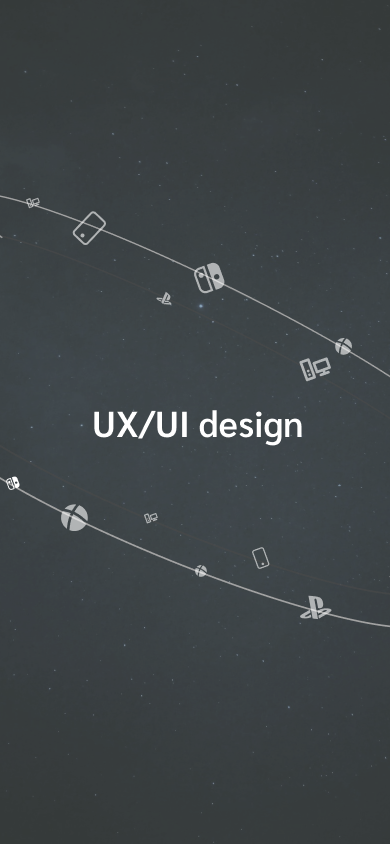
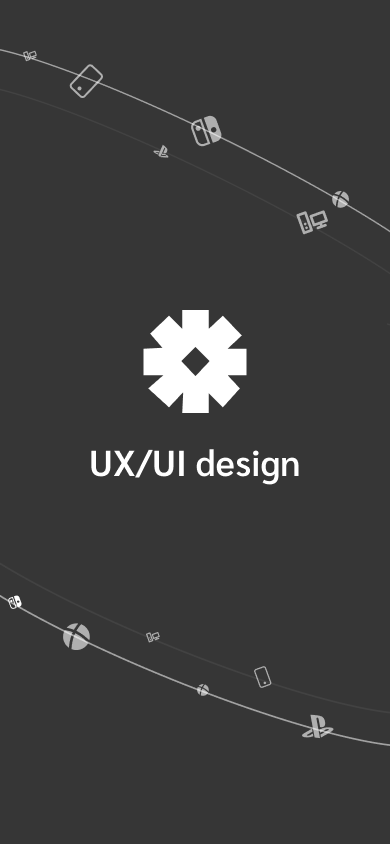
carteles cambio

diff --git a/cocos.html b/cocos.html
@@ -104,7 +104,7 @@
             <!-- introduccion version mobile -->
             <div class="Main-introduccionMobile">
                 <div class="Main-imgLogo">
-                    <img src="./img/mattura/portadaImagen.jpg" alt="mattura" class="Main-img">
+                    <img src="./img/cocos/portada-color.png" alt="mattura" class="Main-img">
 
 
                 </div>
@@ -114,13 +114,10 @@
                 </div> -->
 
                 <div class="Main-descripcion">
-                    <svg width="24" height="24" viewBox="0 0 24 24" fill="none" xmlns="http://www.w3.org/2000/svg">
-                        <path fill-rule="evenodd" clip-rule="evenodd"
-                            d="M23.279 3.0397C23.301 2.77095 23.3118 2.5014 23.3113 2.23176V0.615875H20.4835C18.3855 0.615526 16.3439 1.29576 14.6654 2.55445C12.9868 3.81314 11.7619 5.58236 11.1744 7.59648C10.2689 6.42845 9.10798 5.48329 7.7806 4.83347C6.45322 4.18364 4.99466 3.84642 3.51676 3.84764H0.688965V5.46352C0.688965 8.03487 1.71043 10.5009 3.52865 12.3191C5.34687 14.1373 7.8129 15.1588 10.3842 15.1588H10.7882V22.0263C10.7882 22.3477 10.9159 22.656 11.1432 22.8832C11.3705 23.1105 11.6787 23.2382 12.0001 23.2382C12.3215 23.2382 12.6298 23.1105 12.8571 22.8832C13.0844 22.656 13.212 22.3477 13.212 22.0263V11.927H13.616C16.0477 11.9274 18.3908 11.0139 20.1806 9.36777C21.9705 7.72161 23.0763 5.46297 23.279 3.0397ZM13.2557 9.50322C13.4544 7.72544 14.3015 6.08331 15.635 4.89087C16.9684 3.69842 18.6946 3.03935 20.4835 3.0397H20.8438C20.6451 4.81748 19.798 6.45961 18.4645 7.65205C17.1311 8.84449 15.4049 9.50356 13.616 9.50322H13.2557ZM3.51676 6.27146C5.30561 6.27111 7.03183 6.93018 8.36527 8.12263C9.69872 9.31507 10.5458 10.9572 10.7446 12.735H10.3842C8.59539 12.7353 6.86918 12.0763 5.53573 10.8838C4.20228 9.69137 3.35518 8.04924 3.15641 6.27146H3.51676Z"
-                            fill="var(--txt)" />
-                    </svg>
-                    <p class="Main-p">Descubre la app de venta de muebles fabricados de manera sostenible y amigable con
-                        el medio ambiente </p>
+                    <svg width="22" height="22" viewBox="0 0 22 22" fill="none" xmlns="http://www.w3.org/2000/svg">
+                        <path fill-rule="evenodd" clip-rule="evenodd" d="M1.41284 5.04587L5.44954 1.21101L8.27523 4.0367V0H13.9266V4.0367L16.9541 1.21101L20.9908 5.44954L17.9633 8.27523H22V13.9266H17.9633L20.5872 16.7523L16.9541 20.789L13.9266 17.7615V22H8.27523L8.47706 17.5596L5.44954 20.789L1.00917 16.7523L4.23853 13.9266H0V8.27523L4.0367 8.07339L1.41284 5.04587ZM8.07339 10.8992L11.1009 7.87169L14.1284 10.8992L11.1009 14.1286L8.07339 10.8992Z" fill="var(--txt)"/>
+                        </svg>
+                    <p class="Main-p"> Con cocozone puedes comprar y vender juegos y jugar online tanto contigo mismx como con tus amigxs </p>
                 </div>
             </div>
 
@@ -180,30 +177,19 @@
 
             <div class="Prototipado-imagenes">
 
-                <img src="./img/mattura/home-inicio.png" alt="home" class="Prototipado-img">
-
-                <img src="./img/mattura/cartel-1.png" alt="Texto y hastags" class="Prototipado-img">
-
-                <img src="./img/mattura/producto.png" alt="producto" class="Prototipado-img">
-
-                <img src="./img/mattura/cartel-2.png" alt="texto hastags" class="Prototipado-img">
-
-                <img src="./img/mattura/lamp.jpg" alt="lampara" class="Prototipado-img">
-
-                <img src="./img/mattura/trabajos.png" alt="trabajos" class="Prototipado-img">
-
-                <img src="./img/mattura/inicio.png" alt="inicio" class="Prototipado-img">
-
-                <img src="./img/mattura/contacto.png" alt="contacto" class="Prototipado-img">
-
-                <img src="./img/mattura/cartel-3.png" alt="Texto hastags" class="Prototipado-img">
-
-                <img src="./img/mattura/categorias.png" alt="categorias"
-                    class="Prototipado-img">
-
-                <img src="./img/mattura/prototipado-dekstop/taburete.png" alt="taburete" class="Prototipado-img">
-
-                <img src="./img/mattura/prototipado-dekstop/favs.png" alt="favoritos" class="Prototipado-img">
+                <img src="./img/cocos/chat .webp" alt="chat" class="Prototipado-img">
+                <img src="./img/cocos/cartel-1.png" alt="Texto y hastags" class="Prototipado-img">
+                <img src="./img/cocos/perfil.webp" alt="perfil" class="Prototipado-img">
+                <img src="./img/cocos/cartel-2.png" alt="cartel 2" class="Prototipado-img">
+                <img src="./img/cocos/cartel-3.png" alt="cartel 3" class="Prototipado-img">
+                <img src="./img/cocos/registro.webp" alt="login" class="Prototipado-img">
+                <img src="./img/cocos/login.webp" alt="inicio" class="Prototipado-img">
+                <img src="./img/cocos/tus-juego.webp" alt="log-in1" class="Prototipado-img">
+    
+                <img src="./img/cocos/minijuegos.webp" alt="categorias" class="Prototipado-img">
+                <img src="./img/cocos/cartel-5.png" alt="cartel" class="Prototipado-img">
+                <img src="./img/cocos/filtrado.webp" alt="filtrado" class="Prototipado-img">
+                <img src="./img/cocos/cartel-4.png" alt="cartel" class="Prototipado-img">
 
 
 
@@ -213,12 +199,7 @@
         </section>
 
 
-        <section class="Video" id="Seccion-video">
-            <h2 class="Main-h2">Video</h2>
-
-            <video src="./img/mattura/prototipado/video-mattura.mp4" class="Video-video" controls></video>
-
-        </section>
+       
         <!-- ----------------------------------------------- -->
 
 
@@ -266,18 +247,19 @@
 
                 <div class="Acordeon-contenido">
                     <div class="Acordeon-prototipadoImagenes">
-                        <img src="./img/cocos/login.webp" alt="home" class="Acordeon-prototipadoImg">
+                        <img src="./img/cocos/chat .webp" alt="chat" class="Acordeon-prototipadoImg">
                         <img src="./img/cocos/cartel-1.png" alt="Texto y hastags" class="Acordeon-prototipadoImg">
                         <img src="./img/cocos/perfil.webp" alt="perfil" class="Acordeon-prototipadoImg">
                         <img src="./img/cocos/cartel-2.png" alt="cartel 2" class="Acordeon-prototipadoImg">
                         <img src="./img/cocos/cartel-3.png" alt="cartel 3" class="Acordeon-prototipadoImg">
                         <img src="./img/cocos/registro.webp" alt="login" class="Acordeon-prototipadoImg">
-                        <img src="./img/cocos/portada-cocos (1).png" alt="inicio" class="Acordeon-prototipadoImg">
-                        <img src="./img/cocos/registro1.webp" alt="log-in1" class="Acordeon-prototipadoImg">
-                        <img src="./img/cocos/cartel-3 (1).png" alt="Texto hastags" class="Acordeon-prototipadoImg">
+                        <img src="./img/cocos/login.webp" alt="inicio" class="Acordeon-prototipadoImg">
+                        <img src="./img/cocos/tus-juego.webp" alt="log-in1" class="Acordeon-prototipadoImg">
+            
                         <img src="./img/cocos/minijuegos.webp" alt="categorias" class="Acordeon-prototipadoImg">
-                        <img src="./img/mattura/taburete.png" alt="taburete" class="Acordeon-prototipadoImg">
-                        <img src="./img/cocos/filtrado.webp" alt="favoritos" class="Acordeon-prototipadoImg">
+                        <img src="./img/cocos/cartel-5.png" alt="cartel" class="Acordeon-prototipadoImg">
+                        <img src="./img/cocos/filtrado.webp" alt="filtrado" class="Acordeon-prototipadoImg">
+                        <img src="./img/cocos/cartel-4.png" alt="cartel" class="Acordeon-prototipadoImg">
 
                     </div>
 
@@ -289,21 +271,6 @@
 
 
 
-            <section class="Acordeon-video ">
-
-
-                <div class="Acordeon-header">
-                    <h2 class="Acordeon-h2">Video</h2>
-                </div>
-
-
-                <div class="Acordeon-contenido">
-                    <video src="./img/mattura/prototipado/video-mattura.mp4" class="Acordeon-videoVideo"
-                        controls></video>
-                </div>
-
-
-            </section>
 
 
         </div>
